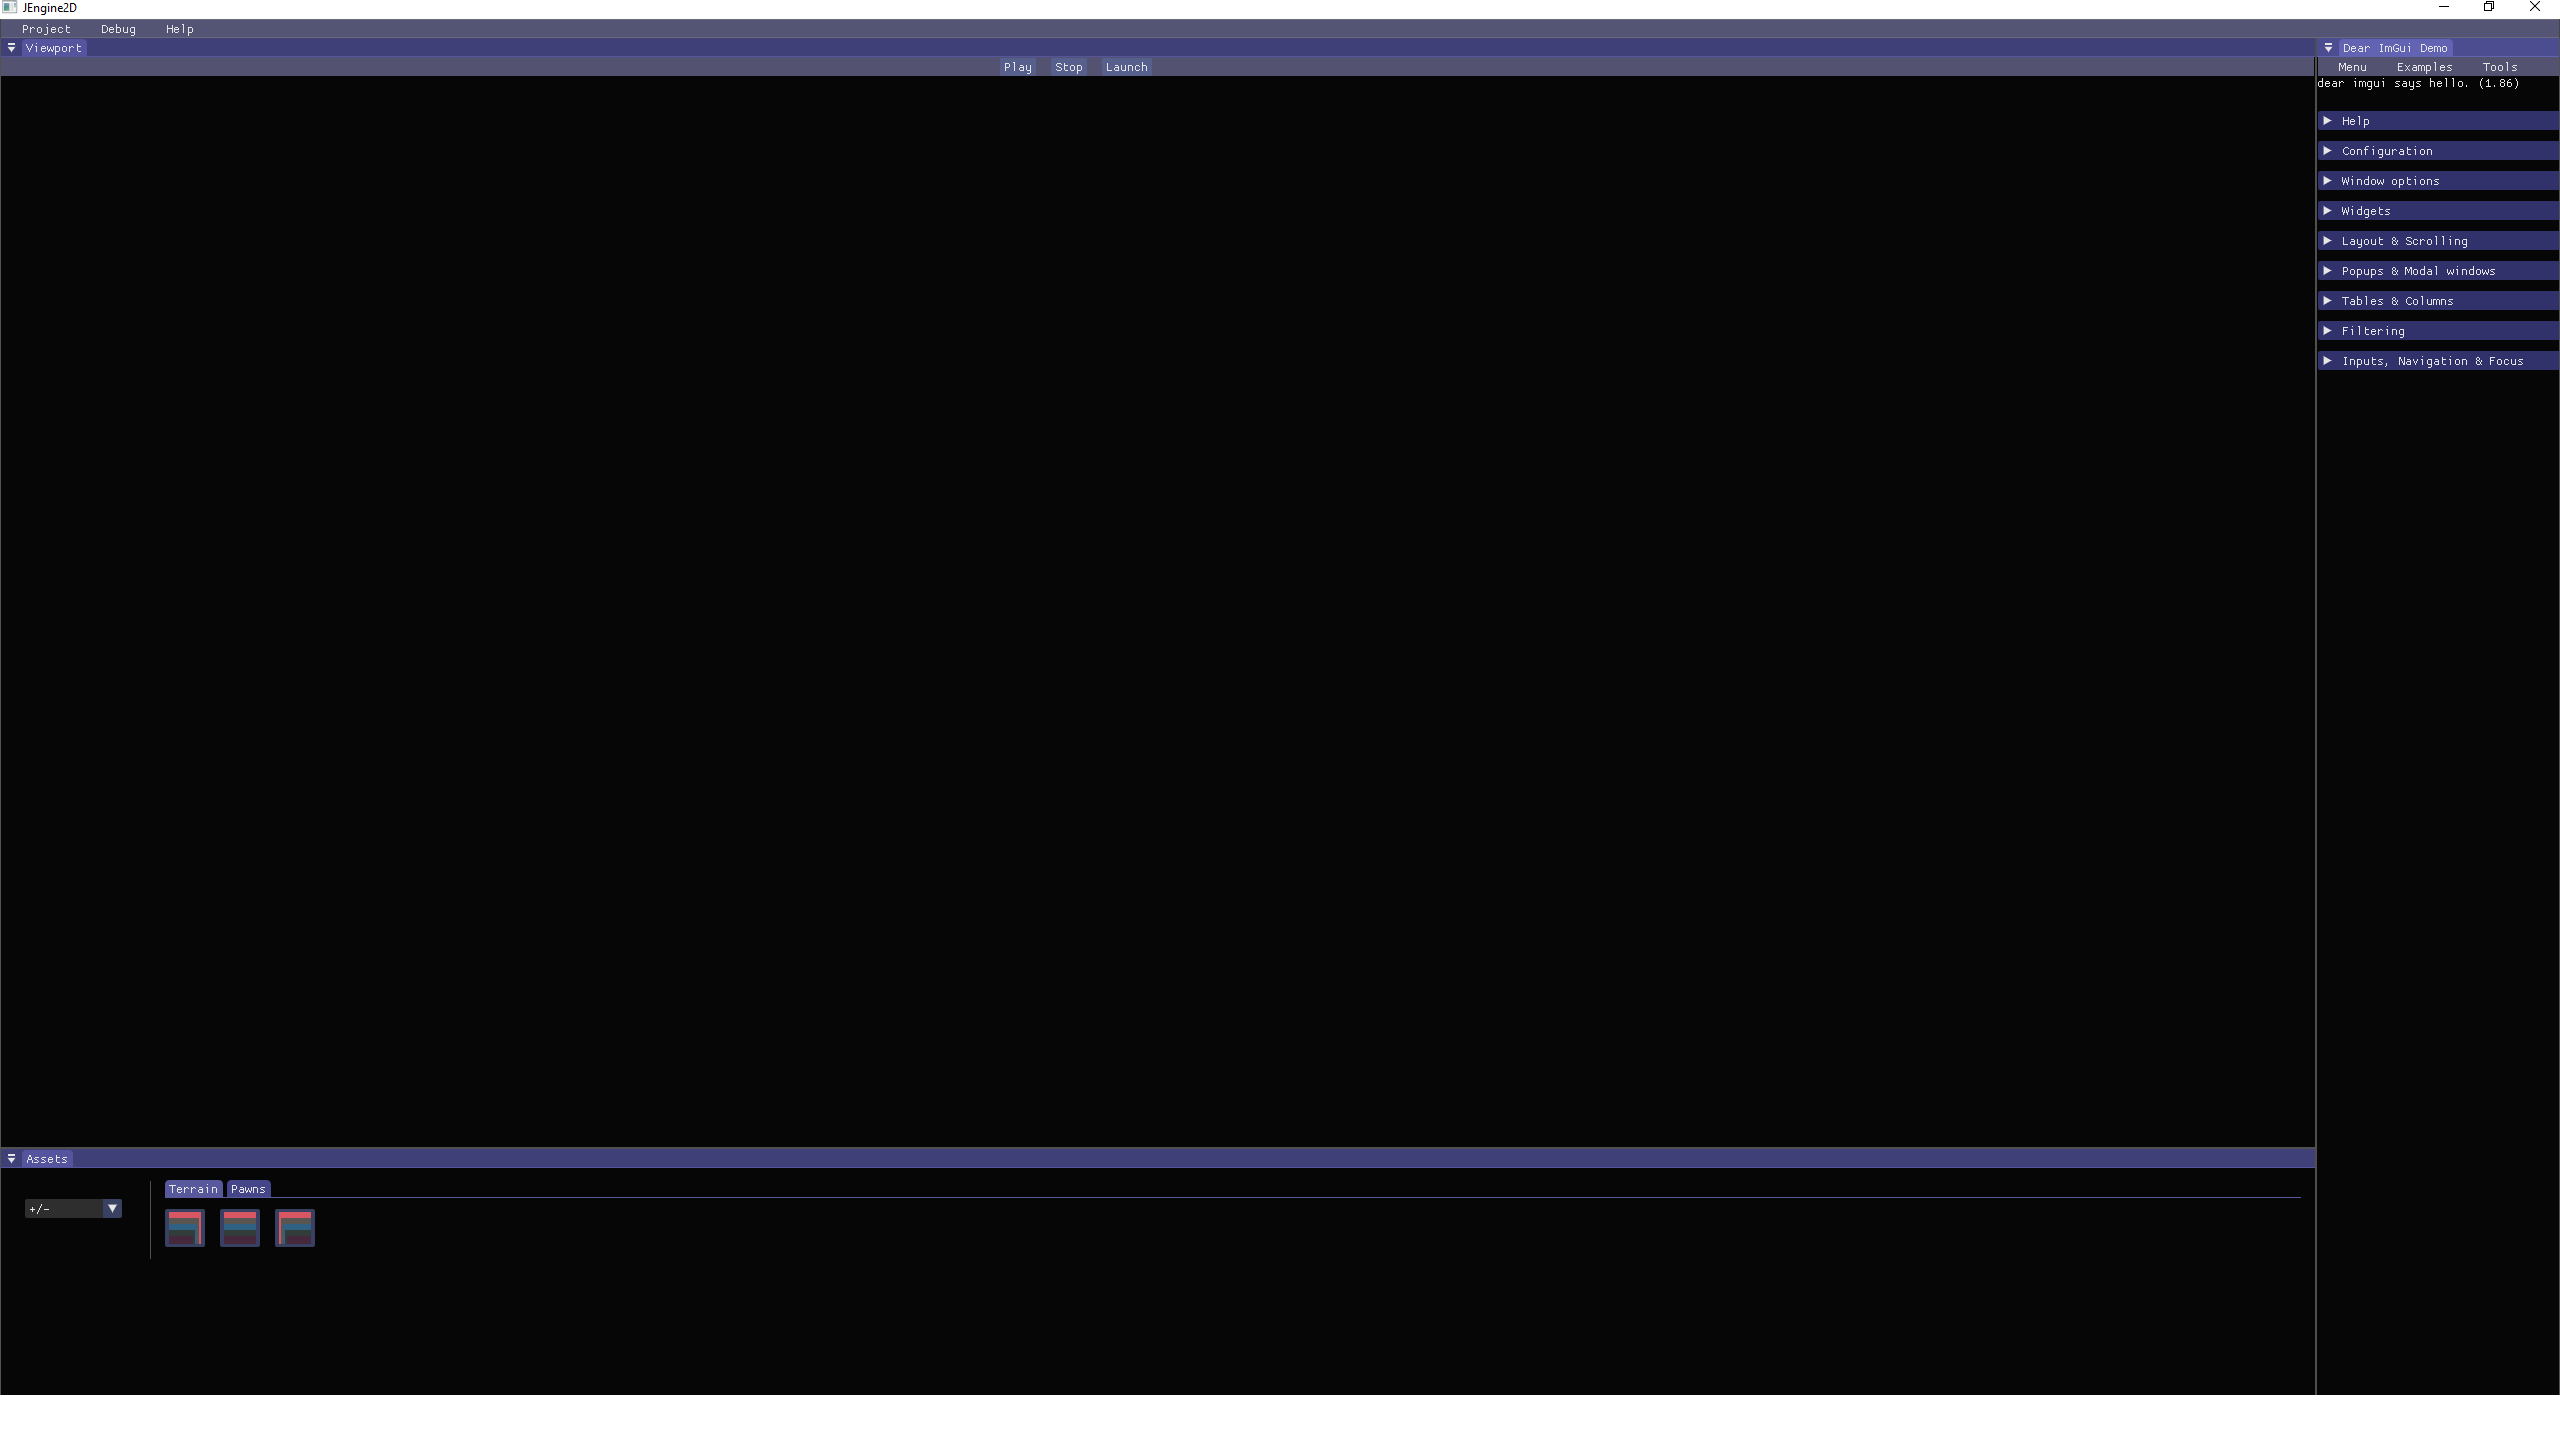
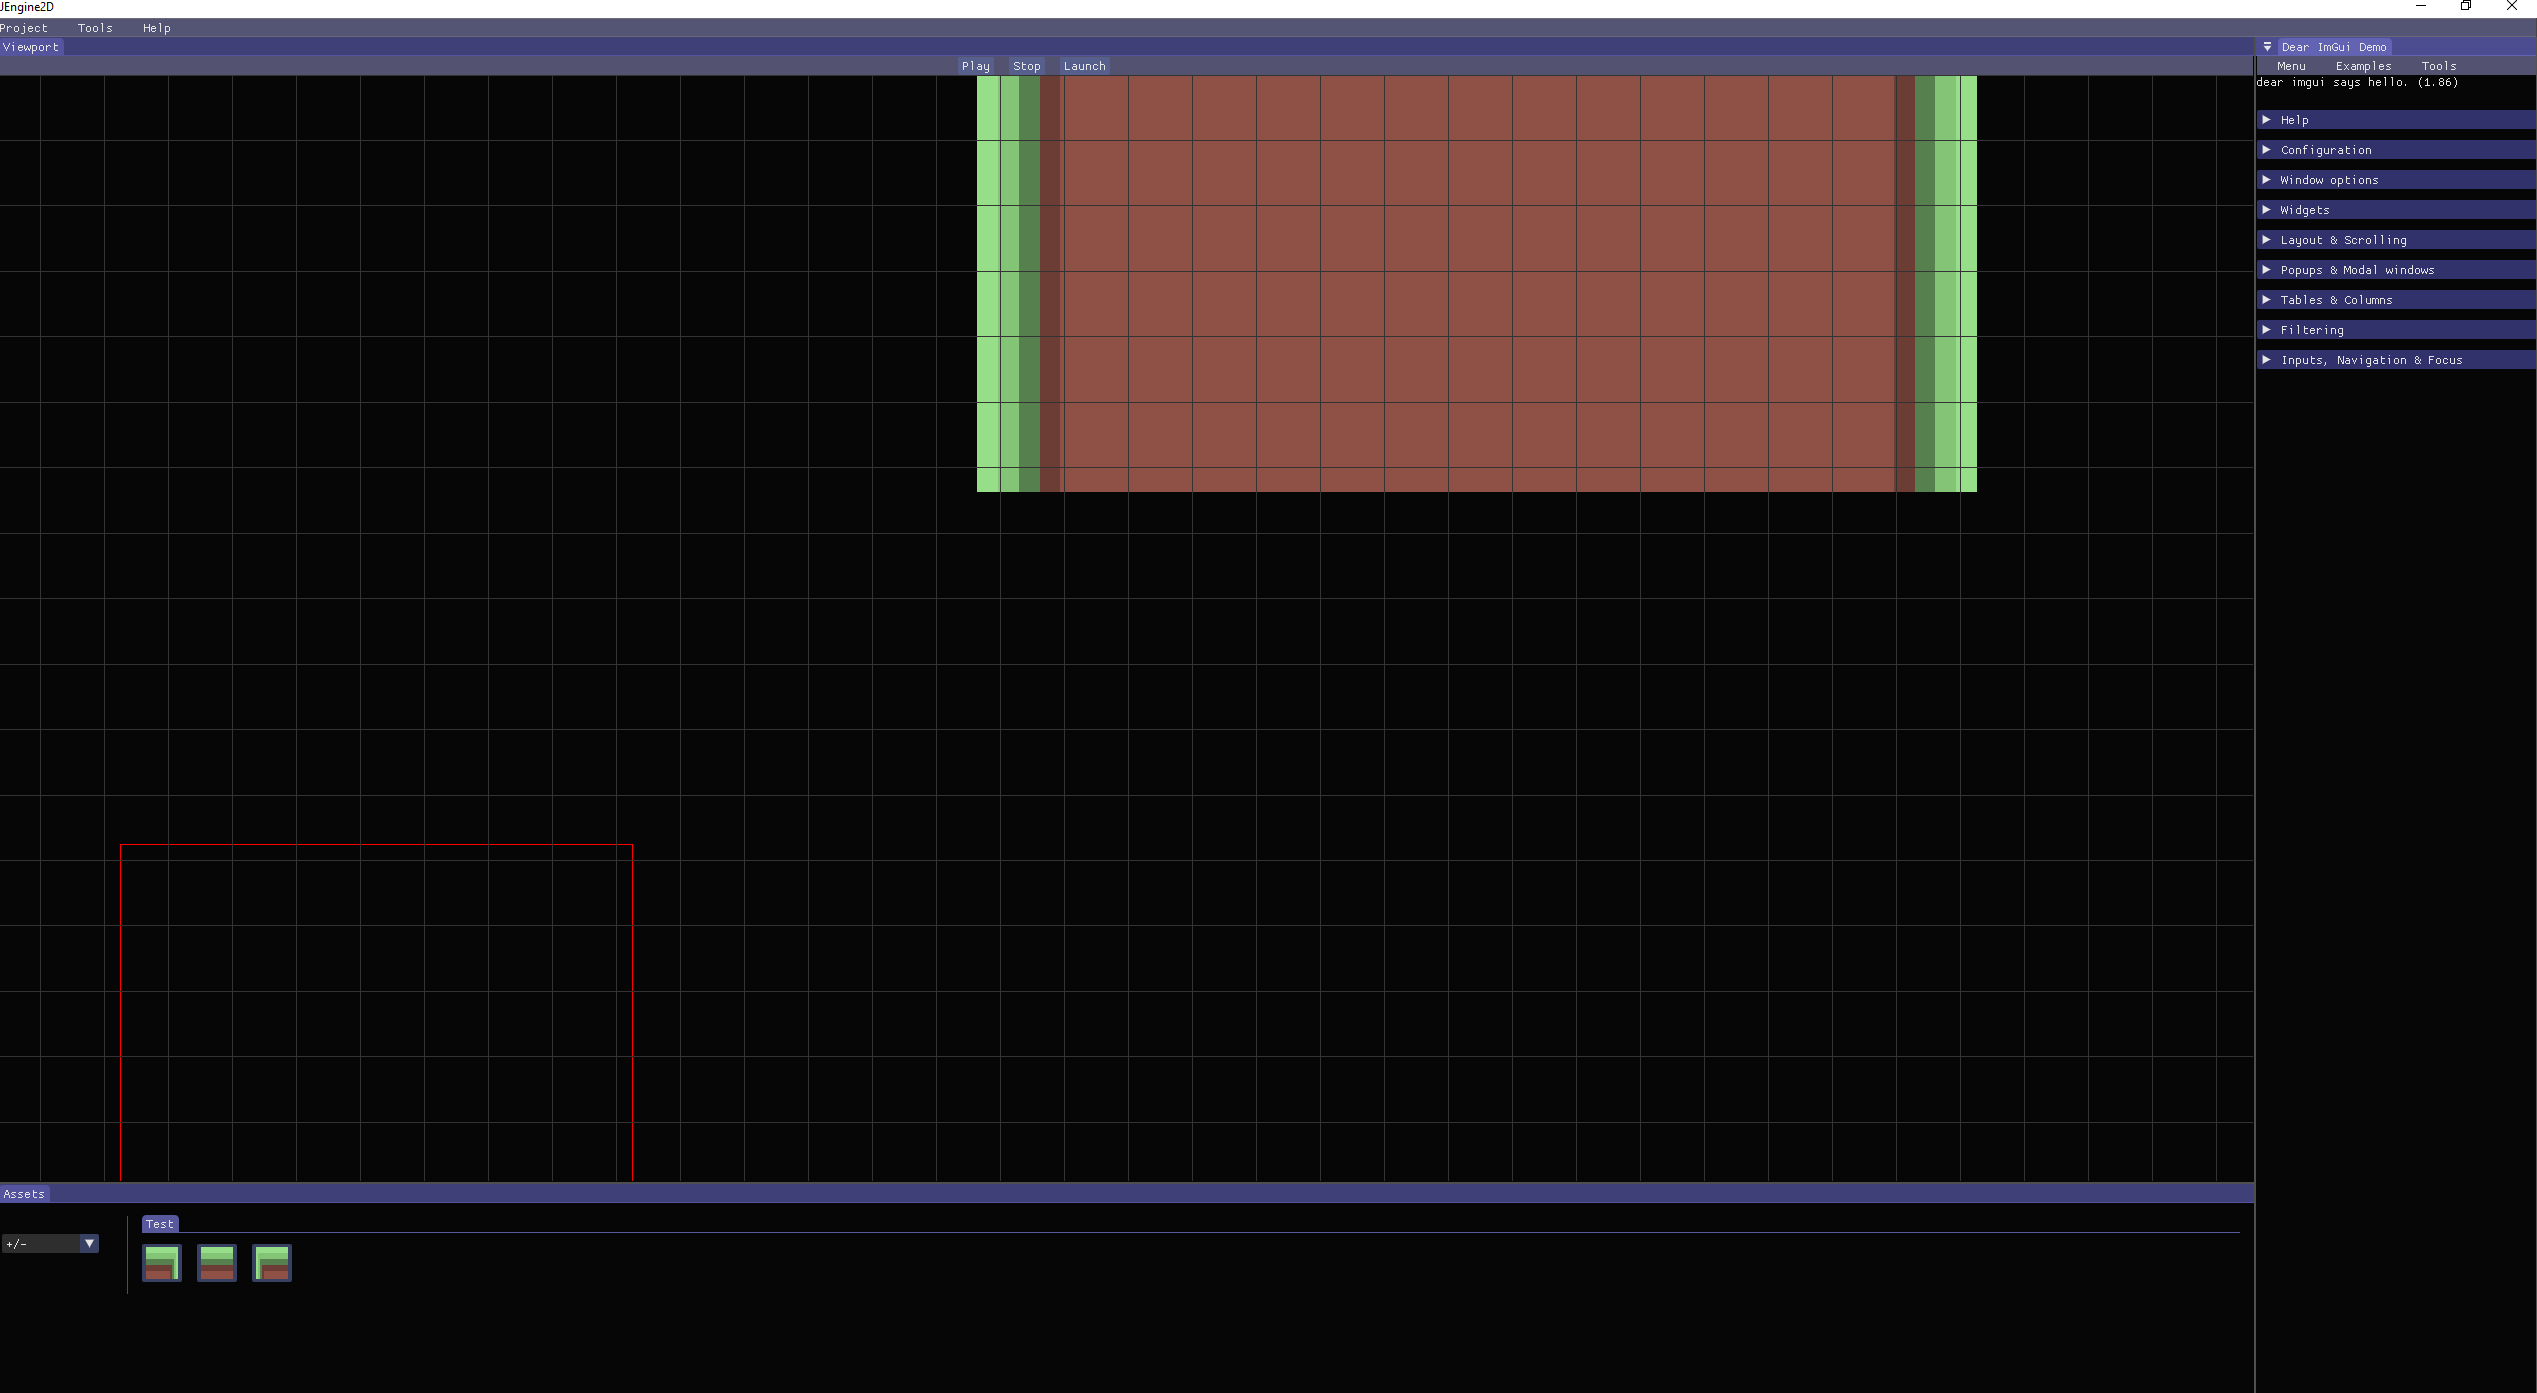
Began working on the gridlines. A base grid can now be drawn. Need to implement options for various sizes of grids/

Changed region(s): [[0.0, 0.0, 1.0, 0.3704], [0.0, 0.7717, 0.903, 0.9261], [0.0, 0.9569, 1.0, 1.0]]

diff --git a/src/main/java/engine/scene/Editor.java b/src/main/java/engine/scene/Editor.java
@@ -19,6 +19,9 @@ import org.joml.Vector3f;
 import java.util.ArrayList;
 import java.util.List;
 
+import static engine.settings.EConstants.DEFAULT_GRID_HEIGHT;
+import static engine.settings.EConstants.DEFAULT_GRID_WIDTH;
+
 public class Editor extends Scene {
 
     private final List<GameObject> gameObjectList = new ArrayList<>();
@@ -34,7 +37,7 @@ public class Editor extends Scene {
     @Override
     public void init() {
         super.init();
-        this.orthoCamera = new OrthographicCamera(new Vector2f(-250,-250));
+        this.orthoCamera = new OrthographicCamera();
         createGameObjects();
         addGameObjToEditor();
     }
@@ -50,6 +53,10 @@ public class Editor extends Scene {
     @Override
     public void render() {
         super.render();
+
+        drawGridLines();
+
+
     }
 
     @Override
@@ -60,8 +67,8 @@ public class Editor extends Scene {
 
     private void createGameObjects() {
         // FIRST GAME OBJECT
-        obj1 = new GameObject("Object 1", new Transform(new Vector2f(200, 100),
-                new Vector2f(256, 256)));
+        obj1 = new GameObject("Object 1", new Transform(new Vector2f(500, 500),
+                new Vector2f(500, 500)));
         obj1Sprite = new Sprite(ResourceManager.getSpriteSheet("assets/spritesheets/test.png").getSprite(1).getSpriteTexture());
         obj1.addComponent(obj1Sprite);
         gameObjectList.add(obj1);
@@ -73,5 +80,34 @@ public class Editor extends Scene {
         }
     }
 
+    public void drawGridLines() {
+
+        Vector2f cameraPos = orthoCamera.position;
+        Vector2f projectionSize = orthoCamera.size;
+
+        int firstX = ((int)(cameraPos.x / DEFAULT_GRID_WIDTH) - 1) * DEFAULT_GRID_WIDTH;
+        int firstY = ((int)(cameraPos.y / DEFAULT_GRID_HEIGHT) - 1) * DEFAULT_GRID_HEIGHT;
+
+        int numVtLines = (int)(projectionSize.x / DEFAULT_GRID_WIDTH) + 2;
+        int numHzLines = (int)(projectionSize.y / DEFAULT_GRID_HEIGHT) + 2;
+
+        int height = (int)projectionSize.y + DEFAULT_GRID_HEIGHT * 2;
+        int width = (int)projectionSize.x + DEFAULT_GRID_WIDTH * 2;
+
+        int maxLines = Math.max(numVtLines, numHzLines);
+        Vector3f color = new Vector3f(0.2f, 0.2f, 0.2f);
+        for (int i=0; i < maxLines; i++) {
+            int x = firstX + (DEFAULT_GRID_WIDTH * i);
+            int y = firstY + (DEFAULT_GRID_HEIGHT * i);
+
+            if (i < numVtLines) {
+                Draw.addLine2D(new Vector2f(x, firstY), new Vector2f(x, firstY + height), color);
+            }
+
+            if (i < numHzLines) {
+                Draw.addLine2D(new Vector2f(firstX, y), new Vector2f(firstX + width, y), color);
+            }
+        }
+    }
 }
 /*End of Editor class*/

diff --git a/src/main/java/engine/debug/Draw.java b/src/main/java/engine/debug/Draw.java
@@ -14,7 +14,8 @@ import org.joml.Vector3f;
 import java.util.ArrayList;
 import java.util.Arrays;
 
-import static engine.settings.EConstants.*;
+import static engine.settings.EConstants.DEBUG_LINE_WIDTH;
+import static engine.settings.EConstants.MAX_DEBUG_LINES;
 import static org.lwjgl.opengl.GL15.*;
 import static org.lwjgl.opengl.GL20.*;
 import static org.lwjgl.opengl.GL30.glBindVertexArray;
@@ -105,7 +106,6 @@ public class Draw {
         debugShader.detach();
     }
 
-
     public static void clearDeadLines() {
         if (!running) {
             init();
@@ -120,6 +120,7 @@ public class Draw {
             }
         }
     }
+
 
     private static void enableVertexAttributes() {
         glEnableVertexAttribArray(0);
@@ -169,12 +170,14 @@ public class Draw {
                 new Vector2f(max.x, max.y), new Vector2f(max.x, min.y)
         };
 
-
         addLine2D(vertices[0], vertices[1], color, lifetime);
         addLine2D(vertices[0], vertices[3], color, lifetime);
         addLine2D(vertices[1], vertices[2], color, lifetime);
         addLine2D(vertices[2], vertices[3], color, lifetime);
     }
 
+    public static Shader getDebugShader() {
+        return debugShader;
+    }
 }
 /*End of Draw class*/

diff --git a/src/main/java/engine/graphics/OrthographicCamera.java b/src/main/java/engine/graphics/OrthographicCamera.java
@@ -11,9 +11,10 @@ import org.joml.Vector3f;
 
 public class OrthographicCamera {
 
-    private Matrix4f viewMatrix = new Matrix4f();
-    private Matrix4f projectionMatrix = new Matrix4f();
+    private final Matrix4f viewMatrix = new Matrix4f();
+    private final Matrix4f projectionMatrix = new Matrix4f();
     public Vector2f position;
+    public Vector2f size = new Vector2f(32.0f * 40.0f, 32.0f * 22.0f);
 
     /**  Creates an orthographic projection with a custom camera position*/
     public OrthographicCamera(Vector2f position) {
@@ -29,8 +30,7 @@ public class OrthographicCamera {
 
     public void setOrthographicProjection() {
         projectionMatrix.identity();
-        float size = 32.0f * 48.0f; // Choose a size for the square
-        projectionMatrix.ortho(0.0f, size, 0.0f, size, 0.0f, 50.0f);
+        projectionMatrix.ortho(0.0f, size.x, 0.0f, size.y, 0.0f, 50.0f);
         }
 
 
@@ -41,6 +41,7 @@ public class OrthographicCamera {
         viewMatrix.lookAt(new Vector3f(position.x, position.y, 20.0f),
                 cameraFront.add(position.x, position.y, 0.0f),
                 cameraUp);
+
         return this.viewMatrix;
     }
 

diff --git a/src/main/java/engine/settings/EConstants.java b/src/main/java/engine/settings/EConstants.java
@@ -34,11 +34,14 @@ public interface EConstants {
         FullPlay
     }
 
+    // Grid width
+    int DEFAULT_GRID_WIDTH = 32;
+    int DEFAULT_GRID_HEIGHT = 32;
+
     // Rendering
     int MAX_BATCH_SIZE = 1000;
     int MAX_DEBUG_LINES = 1000;
     float DEBUG_LINE_WIDTH = 3.0f;
-    float DEBUG_LINE_Z_INDEX = -15.0f;
 
     // Physics constants
     enum BodyType {
